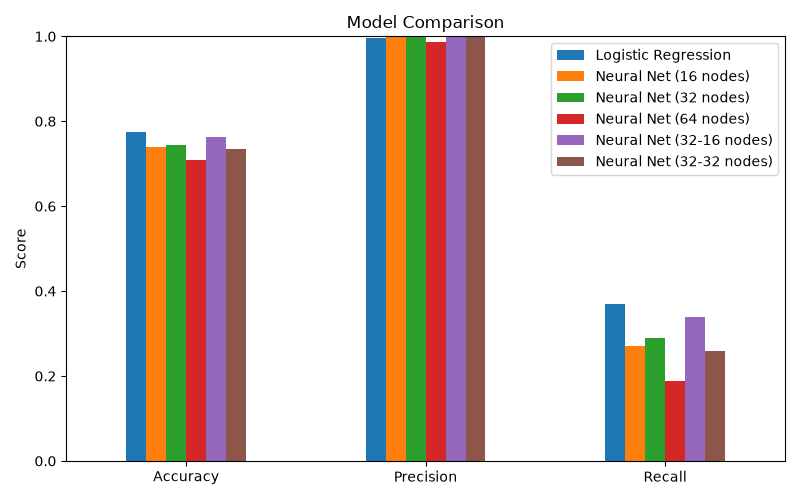
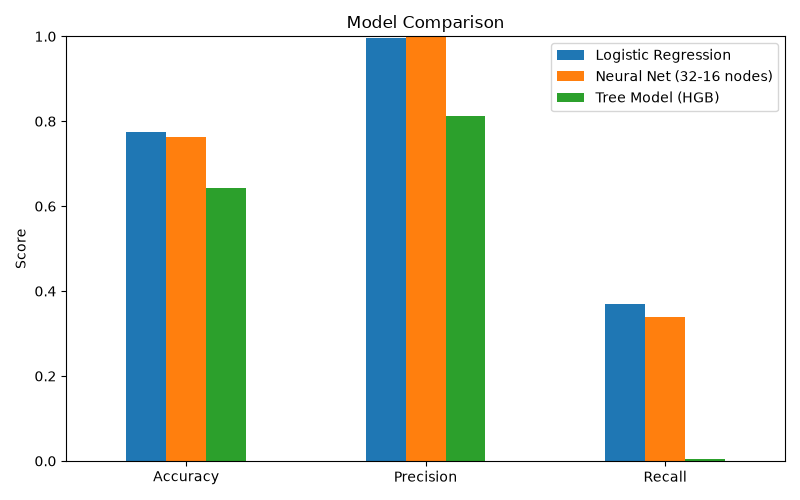
Big Change - Added new models, k-fold, and some other minor changes

diff --git a/src/cross_validation.py b/src/cross_validation.py
@@ -1,13 +1,53 @@
-import pandas as pd
 from sklearn.model_selection import cross_validate
+from sklearn.metrics import confusion_matrix, make_scorer
+import numpy as np
+import pandas as pd
+
 
 def run_cv(models, X, y, cv, groups=None, scoring=("accuracy", "precision", "recall")):
-    table = {}
-    
-    for name, estimator in models.items():
-        s = cross_validate(estimator, X, y, cv=cv, groups=groups, scoring=list(scoring))
+    means = {}   # [mean accuracy, mean precision, mean recall]
+    stds = {}    # [std accuracy, std precision, std recall]
+    confusion_matrices = {}  # stores confusion matrix for each model
 
-        table[name] = {m: f"{s[f'test_{m}'].mean():.3f} ± {s[f'test_{m}'].std():.3f}"
-                       for m in scoring}
-        
-    return pd.DataFrame(table)
+    scorers = {metric: metric for metric in scoring}   # accuracy/precision/recall, by name
+    scorers["tn"] = _confusion_cell(0, 0)
+    scorers["fp"] = _confusion_cell(0, 1)
+    scorers["fn"] = _confusion_cell(1, 0)
+    scorers["tp"] = _confusion_cell(1, 1)
+
+    for name, estimator in models.items():
+        results = cross_validate(estimator, X, y, cv=cv, groups=groups, scoring=scorers)
+
+        mean_scores = []
+        std_scores = []
+        for metric in scoring:
+            fold_scores = results[f"test_{metric}"]   # one score per fold
+            mean_scores.append(fold_scores.mean())
+            std_scores.append(fold_scores.std())
+
+        means[name] = mean_scores
+        stds[name] = std_scores
+
+
+        tn = results["test_tn"].sum()    
+        fp = results["test_fp"].sum()
+        fn = results["test_fn"].sum()
+        tp = results["test_tp"].sum()
+        confusion_matrices[name] = np.array([[tn, fp], [fn, tp]]).astype(int)
+
+        print(name + " is done!")
+
+
+
+
+
+    row_labels = [m.capitalize() for m in scoring]
+    return pd.DataFrame(means, index=row_labels), pd.DataFrame(stds, index=row_labels), confusion_matrices
+
+
+def _confusion_cell(row, col):
+    """Returns a scorer that reports ONE cell of the 2x2 confusion matrix."""
+    def cell(y_true, y_pred):
+        return confusion_matrix(y_true, y_pred, labels=[0, 1])[row, col]
+    
+    return make_scorer(cell)

diff --git a/src/evaluate.py b/src/evaluate.py
@@ -12,9 +12,19 @@ from sklearn.metrics import (
     classification_report,
 )
 
+import pandas as pd
+import numpy as np
 
 def evaluate(y_true, y_pred) -> dict:
-    """Return a dict of accuracy, precision, recall, and the confusion matrix."""
+    """Return a dict of accuracy, precision, recall, and the confusion matrix.
+
+    Args:
+        y_true (pd.Series or np.ndarray): True labels.
+        y_pred (pd.Series or np.ndarray): Predicted labels.
+
+    Returns:
+        dict: Dictionary containing accuracy, precision, recall, and confusion matrix.
+    """
     return {
         "accuracy": accuracy_score(y_true, y_pred),
         "precision": precision_score(y_true, y_pred),
@@ -35,3 +45,20 @@ def print_report(y_true, y_pred) -> None:
     print(metrics["confusion_matrix"])
     print()
     print(classification_report(y_true, y_pred, target_names=["normal", "attack"]))
+
+
+def per_attack_recall(labels, y_pred):
+    """Compute the recall rate for each attack type.
+
+    Args:
+        labels (pd.Series or np.ndarray): True labels.
+        y_pred (pd.Series or np.ndarray): Predicted labels.
+
+    Returns:
+        pd.DataFrame: DataFrame containing the recall rate and number of samples for each attack type.
+    """
+    
+    out = (pd.DataFrame({"Label": pd.Series(labels).str.strip().values,
+                         "flagged": np.asarray(y_pred) == 1})
+             .groupby("Label")["flagged"].agg(rate="mean", rows="size"))
+    return out.sort_values("rate")

diff --git a/src/compare.py b/src/compare.py
@@ -55,3 +55,27 @@ def plot_comparison(results_df, confusion_matrices, bar_chart_path="comparison_b
 
     plt.tight_layout()
     plt.savefig(confusion_path)
+
+
+
+def plot_confusion_matrices(confusion_matrices, path="confusion_matrices.png"):
+    num_models = len(confusion_matrices)
+    fig, axes = plt.subplots(1, num_models, figsize=(6 * num_models, 5))
+    if num_models == 1:
+        axes = [axes]
+    for ax, (name, cm) in zip(axes, confusion_matrices.items()):
+        sns.heatmap(cm, annot=True, fmt="d", cmap="Blues",
+                    xticklabels=["normal", "attack"], yticklabels=["normal", "attack"], ax=ax)
+        ax.set_title(name); ax.set_xlabel("Predicted"); ax.set_ylabel("Actual")
+    plt.tight_layout()
+    plt.savefig(path)
+
+
+def plot_cv_results(means_df, stds_df, path="cv_comparison.png"):
+    means_df.plot(kind="bar", yerr=stds_df, capsize=4, figsize=(8, 5))
+    plt.title("Cross-Validation Results (mean ± std across folds)")
+    plt.ylabel("Score")
+    plt.ylim(0, 1.05)
+    plt.xticks(rotation=0)
+    plt.tight_layout()
+    plt.savefig(path)

diff --git a/src/cic_data_loader.py b/src/cic_data_loader.py
@@ -4,6 +4,14 @@ import pandas as pd
 
 
 def cic_load_data(data_dir="data/data_cic"):
+    """Load CIC network intrusion data from CSV files in the specified directory.
+
+    Args:
+        data_dir (str, optional): Directory containing the CSV files. Defaults to "data/data_cic".
+
+    Returns:
+        pd.DataFrame: DataFrame containing the concatenated and preprocessed data from all CSV files.
+    """
     paths = sorted(glob.glob(os.path.join(data_dir, "*.csv")))
 
 
@@ -31,6 +39,15 @@ def cic_load_data(data_dir="data/data_cic"):
 
 
 def split_by_day(df, test_days=("friday",)):
+    """Split the DataFrame into training and testing sets based on the specified test days.
+
+    Args:
+        df (pd.DataFrame): DataFrame containing the network intrusion data.
+        test_days (tuple, optional): Days to be used as the test set. Defaults to ("friday",).
+
+    Returns:
+        tuple: A tuple containing the training and testing DataFrames.
+    """
     mask = df["Day"].isin(test_days)
     
     return df[~mask].copy(), df[mask].copy()

diff --git a/src/tree_models.py b/src/tree_models.py
@@ -1,0 +1,15 @@
+import numpy as np
+from sklearn.ensemble import HistGradientBoostingClassifier, IsolationForest
+
+def train_hgb(X_train, y_train, random_state=42):
+    return HistGradientBoostingClassifier(
+        class_weight="balanced", random_state=random_state).fit(X_train, y_train)
+
+class BenignOnlyIsolationForest:
+    """Fits on benign rows only; predicts 1 (attack) for anything that looks unusual."""
+    def __init__(self, **kwargs):
+        self.model = IsolationForest(random_state=42, **kwargs)
+    def fit(self, X, y):
+        self.model.fit(X[np.asarray(y) == 0]); return self
+    def predict(self, X):
+        return (self.model.predict(X) == -1).astype(int)

diff --git a/main.py b/main.py
@@ -15,8 +15,8 @@ from src.evaluate import print_report
 
 def main():
 
-    print("Loading data...")
-    train, test = kdd_load_data(data_dir="data/kdd_data")
+    print("Loading KDD data...")
+    train, test = kdd_load_data(data_dir="data/data_kdd")
     print(f"  Training rows: {len(train)}")
     print(f"  Test rows:     {len(test)}")
 
